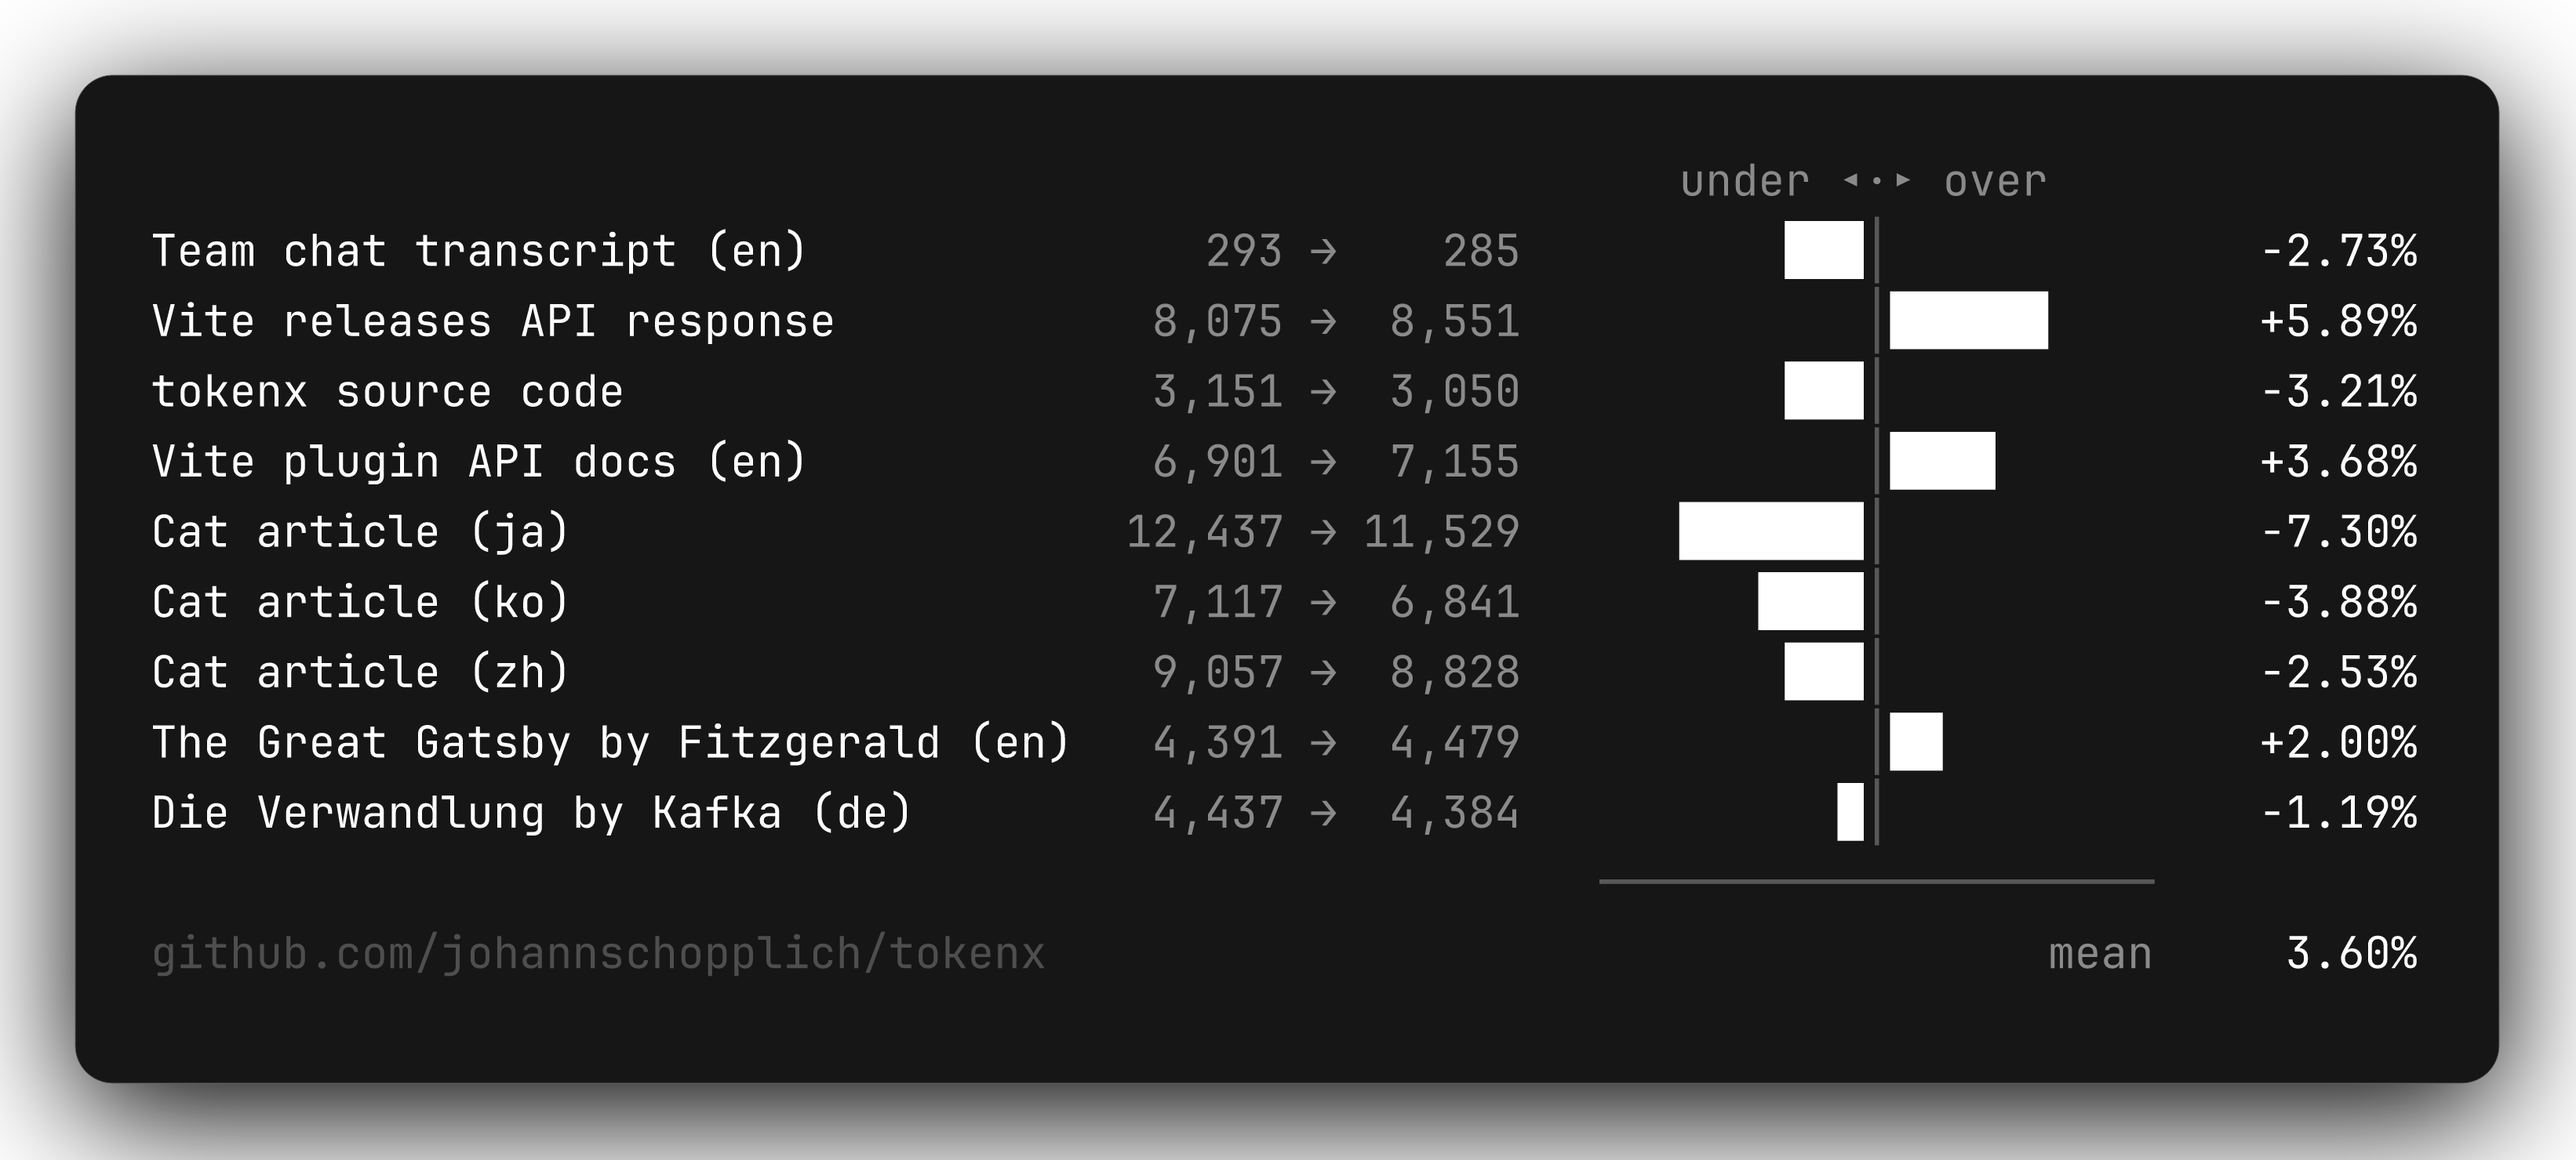
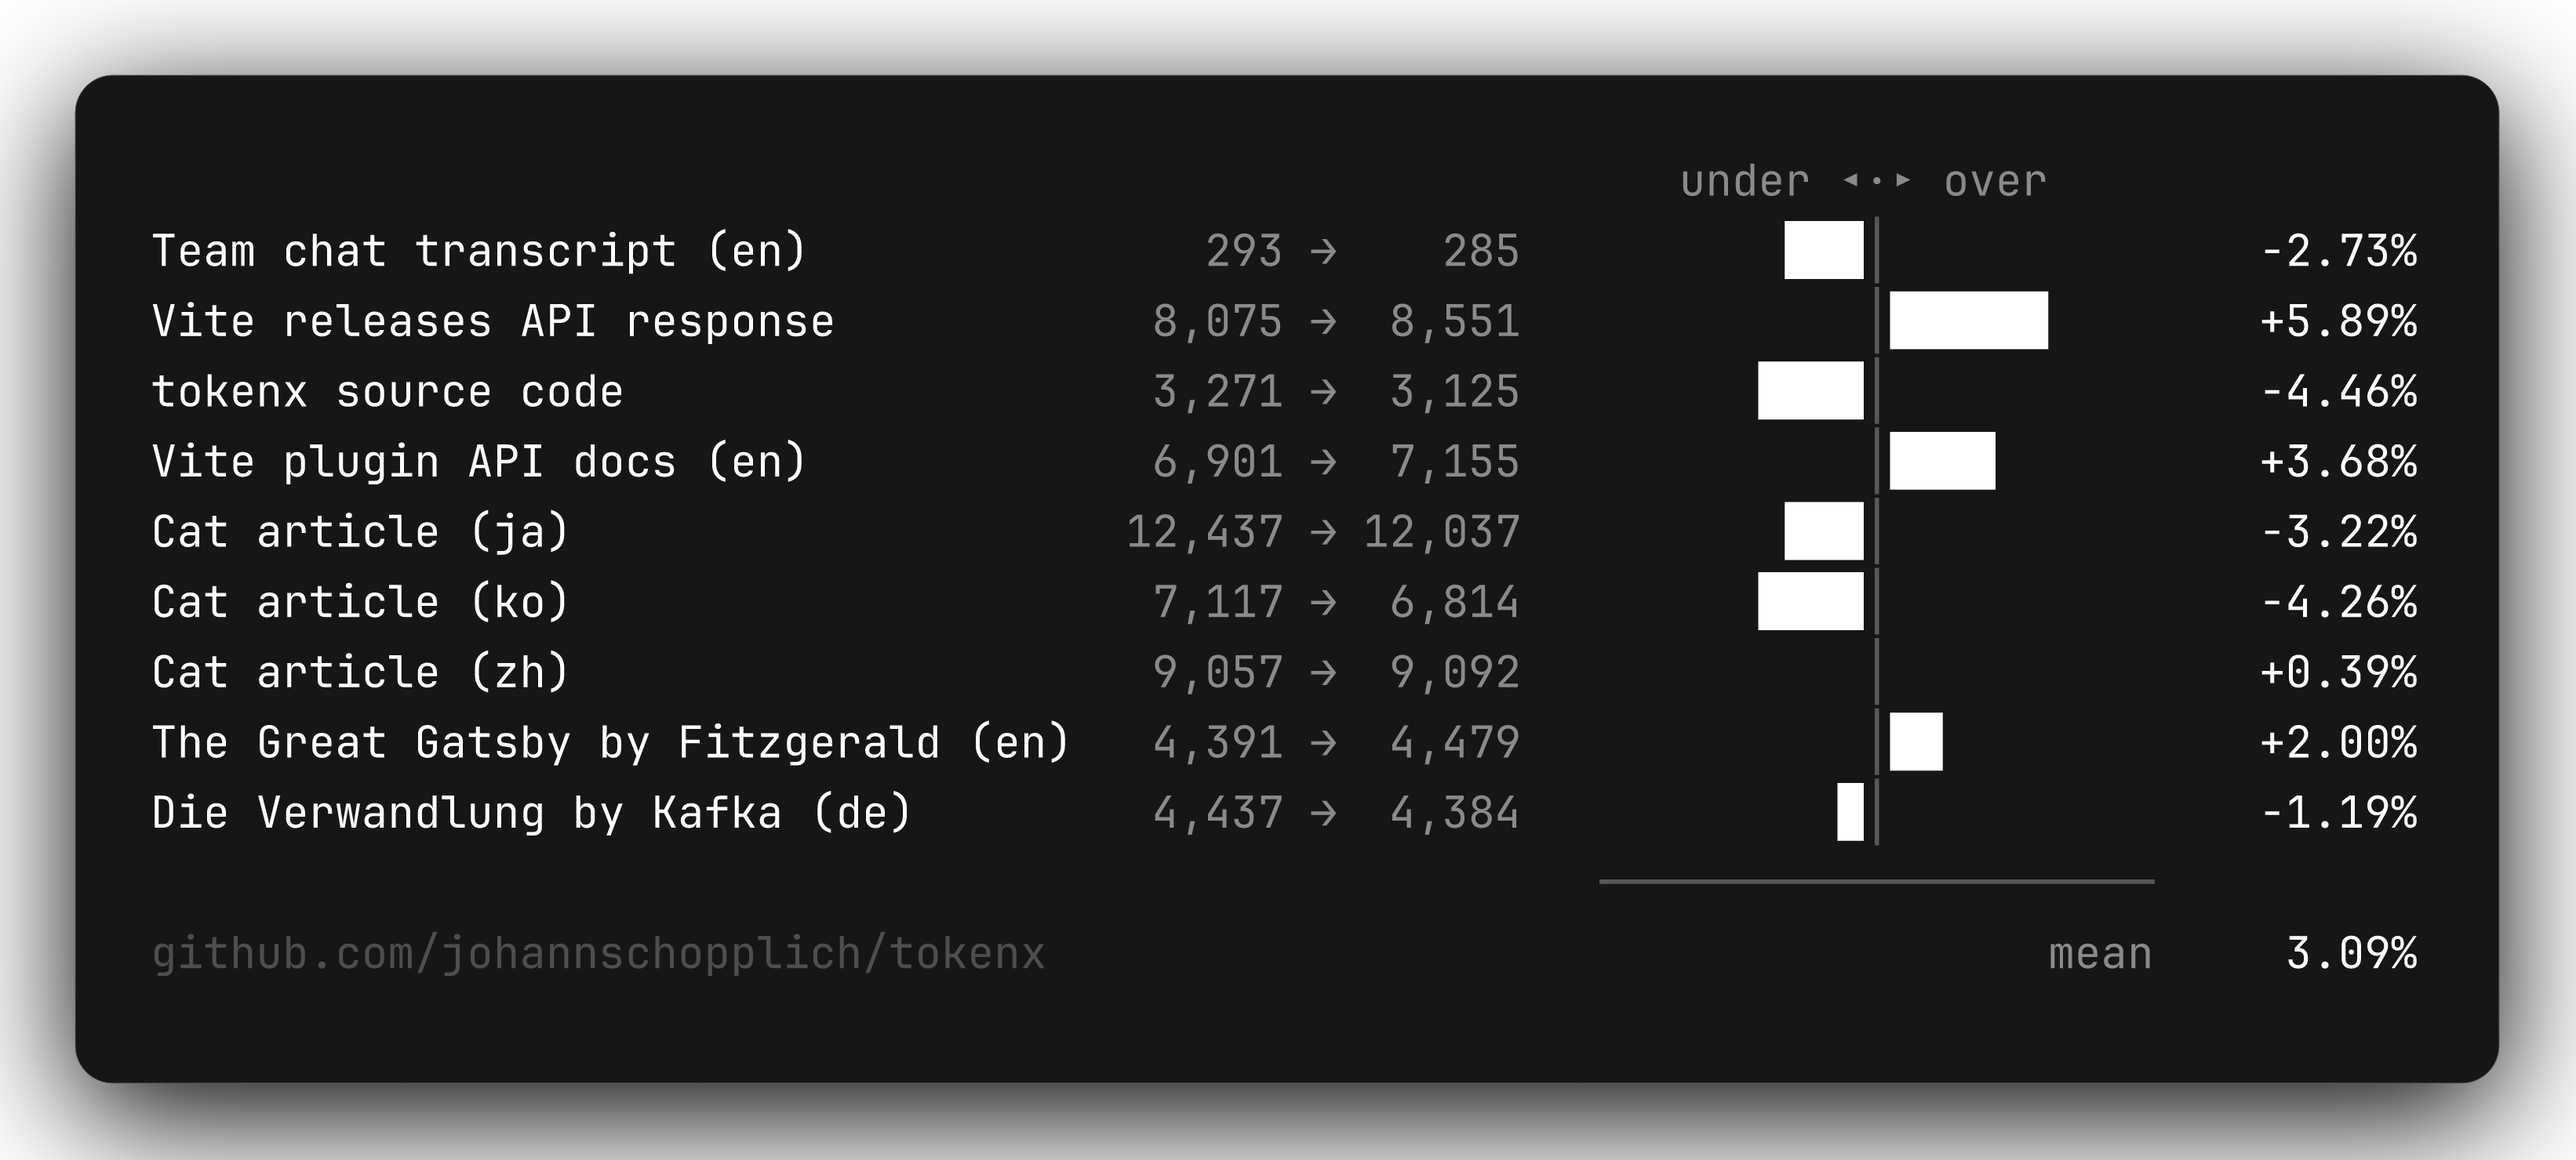
feat: split CJK text at ideographic and fullwidth punctuation

diff --git a/test/heuristics.test.ts b/test/heuristics.test.ts
@@ -369,26 +369,26 @@ describe('heuristic calibration', () => {
     it('prices Japanese text', () => {
       expect(measureBucket(BUCKETS.japanese)).toMatchInlineSnapshot(`
         "short    33 →  30    -9.1%  コーヒー中のカフェインなどの興奮作用から労働者には最適な嗜好品とされている。
-        short    33 →  32    -3.0%  精製された生豆は生産国で集積され、選別・等級付けされてから消費国に輸出される。
+        short    33 →  33     0.0%  精製された生豆は生産国で集積され、選別・等級付けされてから消費国に輸出される。
         short    32 →  26   -18.8%  生豆は消費地においてコーヒー独特の香味を生み出すために焙煎される。
-        short    37 →  34    -8.1%  だが、記録が残っていないだけでアラビアコーヒーの歴史はそれよりずっと古いと推測されている。
+        short    37 →  36    -2.7%  だが、記録が残っていないだけでアラビアコーヒーの歴史はそれよりずっと古いと推測されている。
         short    23 →  21    -8.7%  コーヒー文化が広まるにつれ、抽出法が工夫され始めた。
-        medium  186 → 162   -12.9%  伝播ルートはエチオピア→イエメン→メッカ（アラビアコーヒー）→オスマントルコ帝国（トルココ…
-        mean                -10.1%
-        mean |dev|           10.1%"
+        medium  186 → 173    -7.0%  伝播ルートはエチオピア→イエメン→メッカ（アラビアコーヒー）→オスマントルコ帝国（トルココ…
+        mean                 -7.7%
+        mean |dev|            7.7%"
       `)
     })
 
     it('prices Chinese text', () => {
       expect(measureBucket(BUCKETS.chinese)).toMatchInlineSnapshot(`
-        "short    41 →  38    -7.3%  采收的成熟咖啡果会经过剥离果肉的初步加工，再经过烘焙的工序，而成为能制作咖啡的咖啡豆。
+        "short    41 →  37    -9.8%  采收的成熟咖啡果会经过剥离果肉的初步加工，再经过烘焙的工序，而成为能制作咖啡的咖啡豆。
         short    20 →  22   +10.0%  因此，公平贸易咖啡与有机咖啡是一个不断扩大的市场。
-        short    21 →  27   +28.6%  但此故事截至1671年并没有得到任何记载，因此可能是杜撰的。
-        short    24 →  27   +12.5%  研磨的方法产出的咖啡末比较均匀，在烹制的时候出味也比较一致。
+        short    21 →  26   +23.8%  但此故事截至1671年并没有得到任何记载，因此可能是杜撰的。
+        short    24 →  26    +8.3%  研磨的方法产出的咖啡末比较均匀，在烹制的时候出味也比较一致。
         short    29 →  27    -6.9%  研磨的速度越慢，摩擦产生的热量越少，因而咖啡的香气不易流失。
         medium  147 → 145    -1.4%  16世纪初，咖啡从也门的摩卡港传播到埃及，随后咖啡馆还出现在叙利亚阿勒颇，并于1554年在…
-        mean                 +5.9%
-        mean |dev|           11.1%"
+        mean                 +4.0%
+        mean |dev|           10.0%"
       `)
     })
 

diff --git a/src/segments.ts b/src/segments.ts
@@ -7,19 +7,22 @@ const PATTERNS = {
   cjk: /[\u4E00-\u9FFF\u3400-\u4DBF\u3000-\u30FF\uFF00-\uFFEF\u2E80-\u2EFF\u31C0-\u31EF\u3200-\u32FF\u3300-\u33FF\uAC00-\uD7AF\u1100-\u11FF\u3130-\u318F\uA960-\uA97F\uD7B0-\uD7FF]/,
   numeric: /^\d+$/,
   punctuation: /[.,!?;(){}[\]<>:/\\|@#$%^&*+=`~_"-]/,
+  // Ideographic and fullwidth punctuation – Chinese and Japanese put no spaces
+  // between words, so without it a whole paragraph would form a single segment.
+  cjkPunctuation: /[\u3001-\u3003\u3008-\u3011\u3014-\u301F\u3030\u30FB\uFF01-\uFF0F\uFF1A-\uFF20\uFF3B-\uFF40\uFF5B-\uFF65]/,
   lowercaseWord: /^[a-z]+$/,
 } as const
 
-const TOKEN_SPLIT_PATTERN = new RegExp(`(\\s+|${PATTERNS.punctuation.source}+)`)
+const TOKEN_SPLIT_PATTERN = new RegExp(`(\\s+|${PATTERNS.punctuation.source}+|${PATTERNS.cjkPunctuation.source}+)`)
 
 // All ratios are calibrated against OpenAI's o200k_base encoding.
 const DEFAULT_CHARS_PER_TOKEN = 7
 const SHORT_TOKEN_THRESHOLD = 3
 const LOWERCASE_WORD_SINGLE_TOKEN_LENGTH = 8
 const PUNCTUATION_CHARS_PER_TOKEN = 6
-const KANA_CHARS_PER_TOKEN = 1.4
+const KANA_CHARS_PER_TOKEN = 1.35
 const HANGUL_CHARS_PER_TOKEN = 1.65
-const HANZI_CHARS_PER_TOKEN = 1.15
+const HANZI_CHARS_PER_TOKEN = 1.2
 
 const DEFAULT_LANGUAGE_CONFIGS: LanguageConfig[] = [
   // An accent rule prices a whole language through the minority of its words

diff --git a/test/index.test.ts b/test/index.test.ts
@@ -264,6 +264,12 @@ describe('splitByTokens', () => {
     expect(splitByTokens(longWord, 2)).toEqual([longWord])
   })
 
+  it('splits Chinese text at its own punctuation', () => {
+    const chinese = '采收的成熟咖啡果会经过剥离果肉的初步加工，再经过烘焙的工序，而成为能制作咖啡的咖啡豆。'
+
+    expect(splitByTokens(chinese, 10)[0]).toBe('采收的成熟咖啡果会经过剥离果肉的初步加工')
+  })
+
   it('does not emit a trailing chunk containing only overlap content', () => {
     const chunks = splitByTokens('aaaa bbbb cccc dddd', 2, { overlap: 1 })
     expect(chunks).toEqual(['aaaa bbbb', 'bbbb cccc', 'cccc dddd'])

diff --git a/README.md b/README.md
@@ -26,15 +26,15 @@ Bars grow left when tokenx underestimates and right when it overestimates. The a
                                                           under ◂·▸ over
 Team chat transcript (en)               293 →    285          ███│              -2.73%
 Vite releases API response            8,075 →  8,551             │██████        +5.89%
-tokenx source code                    3,151 →  3,050          ███│              -3.21%
+tokenx source code                    3,271 →  3,125         ████│              -4.46%
 Vite plugin API docs (en)             6,901 →  7,155             │████          +3.68%
-Cat article (ja)                     12,437 → 11,529      ███████│              -7.30%
-Cat article (ko)                      7,117 →  6,841         ████│              -3.88%
-Cat article (zh)                      9,057 →  8,828          ███│              -2.53%
+Cat article (ja)                     12,437 → 12,037          ███│              -3.22%
+Cat article (ko)                      7,117 →  6,814         ████│              -4.26%
+Cat article (zh)                      9,057 →  9,092             │              +0.39%
 The Great Gatsby by Fitzgerald (en)   4,391 →  4,479             │██            +2.00%
 Die Verwandlung by Kafka (de)         4,437 →  4,384            █│              -1.19%
                                                        ─────────────────────
-                                                                        mean     3.60%
+                                                                        mean     3.09%
 ```
 
 <!-- /automd -->
@@ -44,7 +44,7 @@ Accuracy depends on the kind of text, not its length: a short excerpt deviates a
 Three cases are knowingly outside these bounds, all underestimates:
 
 - **High-entropy strings** – base64, hashes, digests: ≈-70%. Pricing them would cost every caller runtime for a case ordinary traffic rarely carries.
-- **Traditional and classical Chinese** – the hanzi rate is calibrated on contemporary simplified script: ≈-10% to -20%.
+- **Traditional and classical Chinese** – the hanzi rate is calibrated on contemporary simplified script: ≈-5% to -20%.
 - **Scripts without a built-in rule** – Arabic ≈-35%, Hindi ≈-30%, Hebrew ≈-45%, Thai ≈-60%; a custom language rule closes the gap.
 
 ## Installation
@@ -223,7 +223,7 @@ The sliced text portion corresponding to the specified token range.
 
 Splits text into chunks based on token count. Useful for chunking documents for RAG, batch processing, or staying within context windows.
 
-`tokensPerChunk` is a target, not a hard maximum: a chunk closes once it reaches the target, so a single long segment can push a chunk beyond it. Chunks never break words apart. Segments split on whitespace and punctuation, so for CJK text – where a whole clause between two punctuation marks is a single segment – chunks can far exceed the target.
+`tokensPerChunk` is a target, not a hard maximum: a chunk closes once it reaches the target, so a single long segment can push a chunk beyond it. Chunks never break words apart. Chinese and Japanese text has no spaces, so a whole clause between two punctuation marks forms one segment, and a long clause can push a chunk well past the target.
 
 **Usage:**
 

diff --git a/docs/bench.md b/docs/bench.md
@@ -4,13 +4,13 @@ Bars grow left when tokenx underestimates and right when it overestimates. The a
                                                           under ◂·▸ over
 Team chat transcript (en)               293 →    285          ███│              -2.73%
 Vite releases API response            8,075 →  8,551             │██████        +5.89%
-tokenx source code                    3,151 →  3,050          ███│              -3.21%
+tokenx source code                    3,271 →  3,125         ████│              -4.46%
 Vite plugin API docs (en)             6,901 →  7,155             │████          +3.68%
-Cat article (ja)                     12,437 → 11,529      ███████│              -7.30%
-Cat article (ko)                      7,117 →  6,841         ████│              -3.88%
-Cat article (zh)                      9,057 →  8,828          ███│              -2.53%
+Cat article (ja)                     12,437 → 12,037          ███│              -3.22%
+Cat article (ko)                      7,117 →  6,814         ████│              -4.26%
+Cat article (zh)                      9,057 →  9,092             │              +0.39%
 The Great Gatsby by Fitzgerald (en)   4,391 →  4,479             │██            +2.00%
 Die Verwandlung by Kafka (de)         4,437 →  4,384            █│              -1.19%
                                                        ─────────────────────
-                                                                        mean     3.60%
+                                                                        mean     3.09%
 ```
